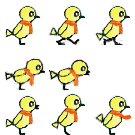
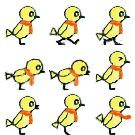
added injured status and life gauge... IMPORTANT: right now stepping on the monster gives a concurrentModificationException because the code is trying to remove the enemy from the enemy list while the list is running. FIGURE THIS OUT

Changed region(s): [[0.6815, 0.3556, 0.9778, 0.6815]]

diff --git a/2016SpringACEGame/src/mainPac/ControlPanel.java b/2016SpringACEGame/src/mainPac/ControlPanel.java
@@ -32,7 +32,9 @@ public class ControlPanel extends JPanel implements KeyListener, ActionListener{
 	boolean lost;
 	MapPanel mapPanel;
 	character.Character mainCharacter;
-	
+	/*
+	 * in coordinates sync the character's status is constantly reset
+	 */
 	public ControlPanel(MapPanel mp, BackgroundPanel bp, CharacterPanel character, ImageLoader il){
 		bird=character.bird;
 		frog=character.frog;
@@ -294,7 +296,7 @@ public class ControlPanel extends JPanel implements KeyListener, ActionListener{
 	public void coordinatesSync (character.Character e){
 		e.setMapX((e.getScreenX()/10)+MapPanel.currmapMinX);
 		e.setMapY(e.getScreenY()/10);
-		if(!e.walking && !e.squat && !e.jumping){
+		if(!e.walking && !e.squat && !e.jumping && !e.injured){
 			e.changeStatus(0);
 		}
 	}
@@ -482,20 +484,41 @@ e.setScreenX(e.getScreenX() - (int)e.recCollisionWithUnit(unitToTest).getWidth()
 		   lost=true;
 		}else{
 		for(enemy e: CharacterPanel.enemies){
-			if(mainCharacter.collisionWithEnemy(e)){
-				System.out.println("you lose!!!!!");
-				lost=true;
-				mainCharacter.setScreenX(mainCharacter.getScreenX() - 
-		(int)mainCharacter.recCollisionWithEnemy(e).getWidth()); 
-							if(e.hVelo!=0)
-							mainCharacter.hVelo=0;
-							}
-			if(mainCharacter.collisionWithEnemy(e)){
-				mainCharacter.setScreeny(mainCharacter.getScreenY() - 
-						(int)mainCharacter.recCollisionWithEnemy(e).getHeight()); 
+			if(e.enemyOnScreen() && mainCharacter.collisionWithEnemy(e)){
+	int cWidth=(int)mainCharacter.recCollisionWithEnemy(e).getWidth();
+	int cHeight=(int)mainCharacter.recCollisionWithEnemy(e).getHeight();
+		if(cWidth>cHeight){
+			e.HP-=1;
+			System.out.println(e.characterName+" is injured!!!");
+			mainCharacter.setScreeny(mainCharacter.getScreenY() - cHeight); 
+		}else if(cWidth<=cHeight){
+				System.out.println("tori is injured!!!!");
+				mainCharacter.HP-=1;
+				mainCharacter.injured=true;
+				mainCharacter.changeStatus(5);//bird's status 5 is injured
+				mainCharacter.hVelo=mainCharacter.myDirection()*10;
+				Timer tempT = new Timer (1000, new ActionListener(){
+					@Override
+					public void actionPerformed(ActionEvent e) {
+						mainCharacter.injured=false;
+					}
+				});
+				tempT.setRepeats(false);
+				tempT.start();
+//				mainCharacter.setScreenX(mainCharacter.getScreenX() - 
+//		(int)mainCharacter.recCollisionWithEnemy(e).getWidth()); 
+//							if(e.hVelo!=0)
+//							mainCharacter.hVelo=0;
+//				mainCharacter.setScreeny(mainCharacter.getScreenY() - 
+//						(int)mainCharacter.recCollisionWithEnemy(e).getHeight()); 
 				mainCharacter.velocity=0;
+		}
 			
 			}
+		}
+		if(mainCharacter.HP==0){
+			System.out.println("you lose!!!");
+			lost=true;
 		}
 		}
 	}

diff --git a/2016SpringACEGame/src/enemies/enemy.java b/2016SpringACEGame/src/enemies/enemy.java
@@ -12,9 +12,13 @@ import map.MapPanel;
 
 public class enemy extends character.Character{
 	Timer walkTimer; int picWidth, picHeight;
+	boolean display;
+	//enemies that are defeated are removed from the enemies list
+	//enemies that go beyond the screen's bounds are just not drawn and not processed
 	public enemy(int initialmapX, int initialmapY, ImageLoader il, CharacterPanel cp, int facing) {
 		super(initialmapX, initialmapY, il, cp);
 		facingDirection=facing;
+		display=true;
 		walkTimer = new Timer (300, new ActionListener(){
 
 			@Override
@@ -26,6 +30,7 @@ public class enemy extends character.Character{
 	}
 
 	public void drawCharacter(Graphics g){
+		if(checkAlive() && display){
 		if(facingDirection==1){
 		g.drawImage(myImage, x, y, x+picWidth,
 				y+picHeight, (myStatus%3)*45, (myStatus/3)*45,
@@ -34,6 +39,9 @@ public class enemy extends character.Character{
 			g.drawImage(myImage, x+45, y, x,
 					y+45, (myStatus%3)*45, (myStatus/3)*45,
 					(myStatus%3)*45+45, (myStatus/3)*45+45, null);
+		}
+		}else if(!checkAlive()){
+			CharacterPanel.enemies.remove(this);
 		}
 	}
 	
@@ -49,4 +57,22 @@ public class enemy extends character.Character{
 	public void stopWalkingTimer(){
 		walkTimer.stop();
 	}
+	
+	public void setDisplay(boolean tOrf){
+		display=tOrf;
+	}
+	
+	public boolean checkAlive(){
+		if(HP>0){
+		return true;
+		}else{
+			return false;
+		}
+	}
+	
+	public boolean enemyOnScreen(){
+		return display;
+	}
+	
+
 }

diff --git a/2016SpringACEGame/src/character/Bird.java b/2016SpringACEGame/src/character/Bird.java
@@ -11,7 +11,7 @@ import map.MapPanel;
 public class Bird extends Character{
 	//our protagonist for now..
 	//STATUS DATA:
-	//0 normal, 0-2 walking,3 squat, 4 sattack, 5 blank, 6 attack, 7 jump, 8 fall
+	//0 normal, 0-2 walking,3 squat, 4 sattack, 5 injured, 6 attack, 7 jump, 8 fall
 	public boolean noteOn;
 	ImageLoader Il;
 	Note note;
@@ -21,8 +21,8 @@ public class Bird extends Character{
 		super(initialmapX, initialmapY, il, cp);
 		myImage = il.tori;
 		Il=il;
-		HP=3;
-		hearts= new Hearts(0, 0, il, 1, HP);
+		HP=6;
+		hearts= new Hearts(0, 0, il, 1, this);
 		characterName = "Chirpy";
 		numOfWalkingStatus=3; //0, 1, 2
 		individualWidth=35; 
@@ -32,7 +32,6 @@ public class Bird extends Character{
 	@Override
 	public void drawCharacter(Graphics g){
 		hearts.drawHearts(g);
-		printMyStatus();
 		if(facingDirection==1){
 		g.drawImage(myImage, x, y, x+45,
 				y+45, (myStatus%3)*45, (myStatus/3)*45,
@@ -134,8 +133,8 @@ public class Bird extends Character{
 	}
 	
 	public void printMyStatus(){
-System.out.println("OnGround: "+onGround+" status: "+
-	myStatus+" walkin: "+walking+" jumpin: "+jumping+" squattin: "+squat);
+		System.out.println("HP: "+HP+"; OnGround: "+onGround+"; status: "+
+	myStatus+"; walkin: "+walking+"; jumpin: "+jumping+"; squattin: "+squat);
 	}
 	
 	@Override

diff --git a/2016SpringACEGame/src/TempObjects/Hearts.java b/2016SpringACEGame/src/TempObjects/Hearts.java
@@ -7,16 +7,18 @@ import mainPac.ImageLoader;
 
 public class Hearts extends tempObject{
 	BufferedImage full, half, none;
-	int hp;
-	public Hearts(int MX, int MY, ImageLoader il, int direction, int HP) {
+	int hp; character.Character myC;
+	public Hearts(int MX, int MY, ImageLoader il, int direction, character.Character myCharacter) {
 		super(MX, MY, il, direction);
-		hp=HP;
+		myC=myCharacter;
+		hp=myC.HP;
 		full=il.hearts.getSubimage(0, 0, 45, 45);
 		half=il.hearts.getSubimage(0, 45, 45, 45);
 		none=il.hearts.getSubimage(0, 90, 45, 45);
 	}
 
 	public void drawHearts(Graphics g){
+		hp=myC.HP;
 		if(hp-2>=0){
 			g.drawImage(full, 0, 0, null);
 		}else if(hp-2==-1){

diff --git a/2016SpringACEGame/src/character/Character.java b/2016SpringACEGame/src/character/Character.java
@@ -28,7 +28,7 @@ public class Character {
 	public double hVelo=0;
 	public int individualWidth, individualHeight;
 	CharacterPanel characterPanel;
-	public boolean onGround, walking, squat, jumping;
+	public boolean onGround, walking, squat, jumping, injured;
 	public int HP;
 	
 	public Character(int initialmapX, int initialmapY, ImageLoader il, CharacterPanel cp){

diff --git a/2016SpringACEGame/src/character/CharacterPanel.java b/2016SpringACEGame/src/character/CharacterPanel.java
@@ -48,7 +48,9 @@ public class CharacterPanel extends JPanel{
 		}
 	for(enemy e:enemies){
 		if(e.getMapX()<MapPanel.currmapMinX || e.getMapX()>MapPanel.currmapMaxX){
-			enemies.remove(e);
+			e.setDisplay(false);
+		}else{
+			e.setDisplay(true);
 		}
 		e.drawCharacter(g);
 	}

diff --git a/2016SpringACEGame/src/enemies/flower.java b/2016SpringACEGame/src/enemies/flower.java
@@ -13,6 +13,7 @@ public class flower extends enemy{
 		myImage=il.flower.getSubimage(
 				0,(int)(Math.random()/0.34)*45, 90, 45
 				);
+		HP=1;
 		characterName="Pansy";
 		picWidth=45;
 		picHeight=45;
